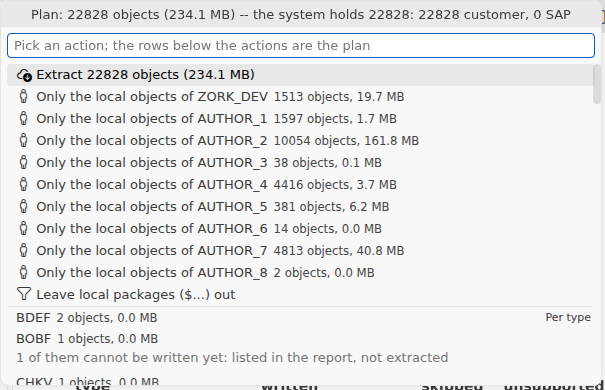
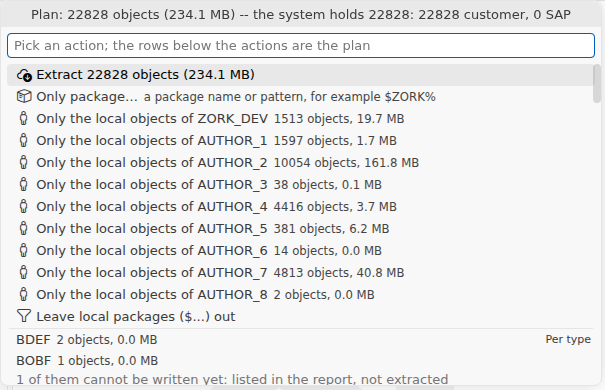
docs(rescue-zork): the fixed route, VS Code end to end, CLI == VS Code
With #983 (next release): `--package '$ZORK%'` narrows on its own and the
VS Code command gains "Only package...". The VS Code screenshots 06-14 are
retaken on that path (plan, package step, consent, progress, report, folder);
the four runs (CLI on 0.7.3131 twice, CLI and VS Code with #983) wrote the
same 43 files byte for byte. The three defects move from the known limits to
"fixed in the next release", with what to do on 0.7.3131.

Claude-Session: https://claude.ai/code/session_01FSTEHL6tT6QuRcwTrT1r7X

diff --git a/docs/rescue-zork.md b/docs/rescue-zork.md
@@ -14,8 +14,14 @@ Measured on 2026-11-18 with release
 [`vscode-stable-v0.7.3131`](https://github.com/oisee/open-steamgate/releases/tag/vscode-stable-v0.7.3131)
 (the `osd-linux-x64` binary and `open-steamgate-linux-x64-0.7.3131.vsix`,
 both checked against their `.sha256` files) and the pinned sidecar
-`osd-hana-dump` v2.62.1. Host, port, tenant, user and schema in the
-examples and screenshots are placeholders.
+`osd-hana-dump` v2.62.1. Host, port, tenant, user, schema and author names in
+the examples and screenshots are placeholders.
+
+The run found three defects in 0.7.3131. They are fixed in
+[#983](https://github.com/oisee/open-steamgate/pull/983), which will be in
+the **next release** (it has no version number yet). This page shows both:
+what works with 0.7.3131, and the shorter route once the fix is released. The
+VS Code screenshots were taken with the fix applied.
 
 ## Which route
 
@@ -23,7 +29,7 @@ examples and screenshots are placeholders.
 |---|---|
 | the ABAP server still runs | export from the server: abapGit, or `vsp export` (below) |
 | the server is gone, the database is not | `osd hana extract` on the command line |
-| the same, from VS Code | "OSD: Extract my code from HANA", **but** see [the VS Code section](#3-vs-code): with 0.7.3131 it cannot narrow to one package, and on this database it stopped with an internal error |
+| the same, from VS Code | "OSD: Extract my code from HANA" with **Only package…**, from the next release on ([section 3](#3-vs-code)) |
 
 A live server knows things the database does not show: screens, GUI
 statuses, transactions, MIME objects. If the server can still be started,
@@ -80,8 +86,10 @@ needs.
 
 ```sh
 osd hana extract --host hana.example --port 30015 --database TENANT --user RESCUER \
-  --no-local --package '$ZORK%' --out ~/rescue/zork --dry-run
+  --package '$ZORK%' --out ~/rescue/zork --dry-run
 ```
+
+With 0.7.3131, add `--no-local` (see below).
 
 ```text
 plan: 29 objects in scope (system holds 29: 29 customer, 0 sap)
@@ -103,16 +111,20 @@ plan: 29 objects in scope (system holds 29: 29 customer, 0 sap)
     ZORK_DEV                             29      0.2 MB
 ```
 
-Two things about the selection, both measured with 0.7.3131:
+`'$ZORK%'` takes the package and its three children. Listing the four
+packages with four `--package` flags gives the same 29 objects.
 
-- **The wildcard is `%`, not `*`.** `'$ZORK%'` takes the package and its
-  three children; `'$ZORK*'` matched nothing. Listing the four packages with
-  four `--package` flags gives the same 29 objects.
+With 0.7.3131, two things about the selection behave differently. Both are
+fixed in the next release:
+
 - **`--package` alone does not narrow.** Local packages are in scope by
-  default, and a `--package` without `--no-local` was added to that default
-  instead of narrowing it: the plan held every local object of the system,
-  22 828 of them. With `--no-local` next to it, the selection is exactly the
-  packages named, `$` packages included.
+  default, and in 0.7.3131 a `--package` without `--no-local` was added to
+  that default instead of narrowing it: the plan held every local object of
+  the system, 22 828 of them. With `--no-local` next to it, the selection is
+  exactly the packages named, `$` packages included. From the next release
+  on, `--package` narrows on its own.
+- **The wildcard is `%`.** In 0.7.3131 `'$ZORK*'` matched nothing. From the
+  next release on, `*` works too and is sent as `%`.
 
 ### Extract
 
@@ -162,11 +174,19 @@ Before you publish the folder, delete `extract-report.md`,
 
 ## 3. VS Code
 
-Install `open-steamgate-<platform>-0.7.3131.vsix` from the release (the
+Install `open-steamgate-<platform>-<version>.vsix` from the release (the
 platform package carries the sidecar). The command needs the osd-hana tools:
 an open-steamgate checkout (setting `osd.home`, or the open workspace
-folder), or the bundled system after its first Start. For this run `osd.home`
-pointed at a checkout of the release tag.
+folder), or the bundled system after its first Start.
+
+The **Only package…** step below is new in the next release
+([#983](https://github.com/oisee/open-steamgate/pull/983)). The screenshots
+were taken with the 0.7.3131 extension, its command file replaced by the one
+from #983 and `osd.home` pointing at a checkout of #983. With 0.7.3131 itself
+the plan offers only one author or "leave local packages out", and the
+narrowest scope that holds `$ZORK` on this database (its author's 1 513
+objects) stopped with exit code 6. Use the command line with `--no-local`
+(section 2) until the next release.
 
 The screenshots are from VS Code 1.147 on Linux. Every host, port, tenant,
 user, schema, author and home path in them was replaced before the picture
@@ -193,49 +213,53 @@ The verdict is the same text as `osd hana doctor`:
 ![The doctor verdict](img/rescue-zork/05-doctor-verdict.png)
 
 **Plan:** everything the login can see that counts as yours. On this sandbox
-that is 22 828 local objects of nine authors (all of them masked here, the author of `$ZORK` as ZORK_DEV).
+that is 22 828 local objects of nine authors (all of them masked here, the
+author of `$ZORK` as ZORK_DEV).
 
 ![The plan for the whole database](img/rescue-zork/06-plan-all-local.png)
 
-The command can narrow to one author or leave local packages out. It
-**cannot** narrow to a package. The closest you get to `$ZORK` is the author
-who wrote it:
+**Only package…** narrows to a package name or pattern:
 
-![Narrowing to one author](img/rescue-zork/07-plan-narrow.png)
+![The Only package action](img/rescue-zork/07-plan-only-package.png)
 
-![The plan for that author: 1 513 objects](img/rescue-zork/08-plan-narrowed.png)
+![The pattern $ZORK%](img/rescue-zork/08-package-pattern.png)
+
+The plan is listed again, now for the 29 objects of `$ZORK` and its
+subpackages, the same numbers as on the command line:
+
+![The plan for $ZORK%: 29 objects](img/rescue-zork/09-plan-narrowed.png)
 
 **Folder and consent:** an empty folder, then the question with the numbers
 of the plan. Nothing is dumped before **Extract**.
 
-![Choosing the output folder](img/rescue-zork/09-folder.png)
+![Choosing the output folder](img/rescue-zork/10-folder.png)
 
-![The consent question](img/rescue-zork/10-consent.png)
+![The consent question](img/rescue-zork/11-consent.png)
 
 **Progress:** cancellable; the line shows what the sidecar is doing.
 
-![Extraction in progress](img/rescue-zork/11-progress.png)
+![Extraction in progress](img/rescue-zork/12-progress.png)
 
-**What happened here.** The dump finished (1 513 objects in four chunks of up
-to 500 names), and the conversion then stopped with exit code 6, internal
-error. No file was written under `src/`.
+**Done:** the report opens, and the notification carries its first
+sentence. It is a warning here because 10 objects are unsupported (exit 3).
 
-![The extraction stopped with an internal error](img/rescue-zork/12-error.png)
+![The report and the result](img/rescue-zork/13-report.png)
 
-The cause is in the module, not in VS Code: `osd hana extract --author
-<same author>` on the command line stops in the same place. The fourth chunk
-held only MIME objects, the sidecar wrote no `tables/` folder for that
-chunk, and the converter treats the missing `tables/TADIR.jsonl` as fatal. Until that is fixed, a scope whose last chunk is only
-MIME objects cannot be converted, and the VS Code command, which cannot
-narrow to a package, cannot rescue `$ZORK` on this database. Use the command
-line from section 2.
+The folder is the same repository the command line wrote:
+
+![The rescued folder](img/rescue-zork/14-folder-tree.png)
 
 ## 4. The proof
 
-**Same input, same bytes.** A second command-line run into an empty folder
-wrote the same 43 files (41 under `src/`, `.abapgit.xml`, `.gitignore`) with
-the same SHA-256 each. The planned comparison of the command line against
-VS Code could not be made: the VS Code run wrote no sources (section 3).
+**Same input, same bytes.** Four runs into four empty folders wrote the
+same 43 files (41 under `src/`, `.abapgit.xml`, `.gitignore`), each with the
+same SHA-256:
+
+| run | command |
+|---|---|
+| command line, 0.7.3131 (twice) | `--no-local --package '$ZORK%'` |
+| command line, #983 | `--package '$ZORK%'` |
+| VS Code, #983 | **Only package…** `$ZORK%` |
 
 **Against the public source.** The 41 rescued files were compared byte for
 byte with [zork-abap](https://github.com/oisee/zork-abap):
@@ -280,7 +304,13 @@ All of [Known limits](hana-rescue.md#known-limits) apply. These came up here:
   defaults are `unsupported`: listed, not written.
 - No `package.devc.xml` is written.
 - Screens and GUI statuses are not in the dump.
-- `--package` narrows only together with `--no-local`; the wildcard is `%`.
+
+Fixed in the next release ([#983](https://github.com/oisee/open-steamgate/pull/983)),
+present in 0.7.3131:
+
+- `--package` narrows only together with `--no-local`, and `*` is not a
+  wildcard.
 - The VS Code command has no package filter.
 - A dump chunk that holds only MIME objects stops the conversion with exit
-  code 6 (section 3).
+  code 6; and in a dump of more than 500 objects the converter looked for
+  every source in the wrong folder (found while fixing the exit 6).
